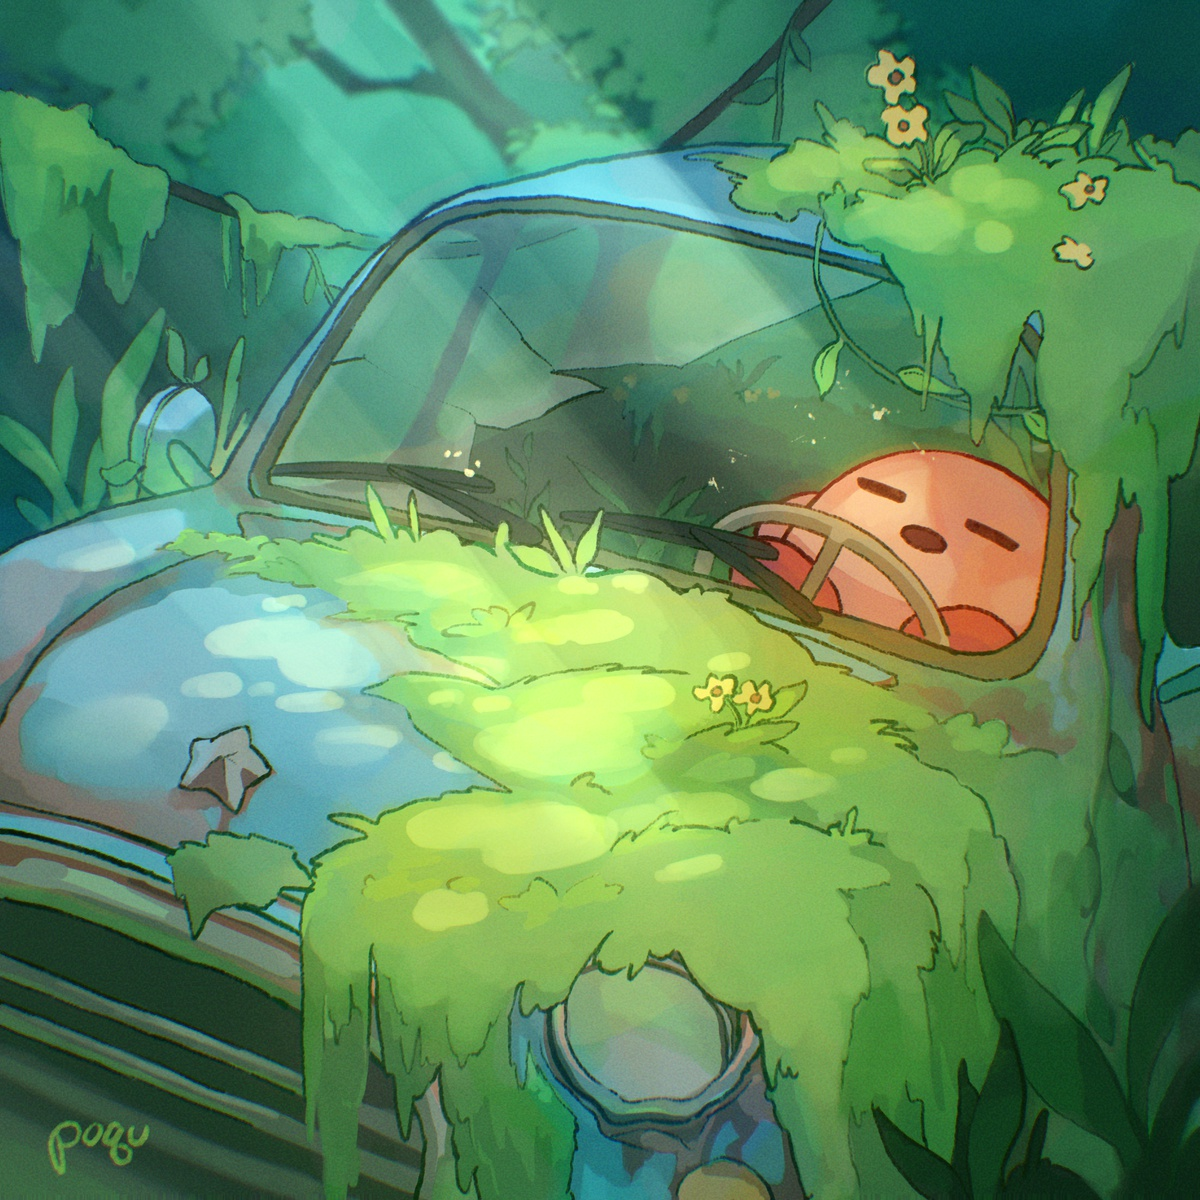
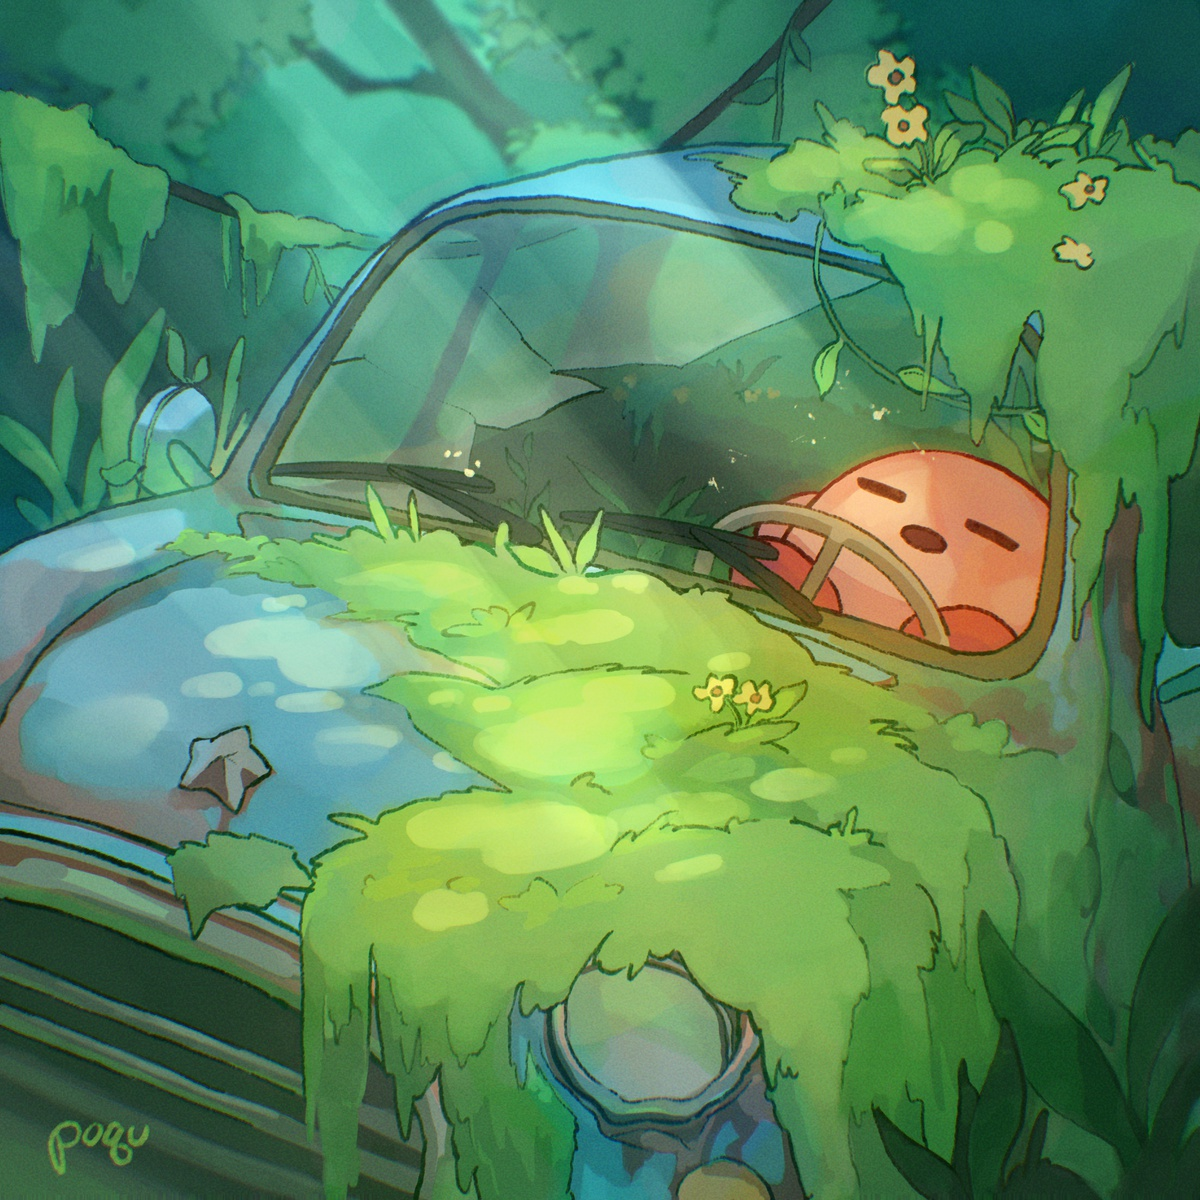
made sunbeams less jarring

Changed region(s): [[0.2775, 0.4625, 0.5858, 0.5858]]

diff --git a/content/fanart/kirbyresting.md b/content/fanart/kirbyresting.md
@@ -2,12 +2,12 @@
 date = "2021-10-01T13:41:01+05:30"
 title = "kirby is resting"
 draft = false
-image = "img/portfolio/kirbyresting.jpg"
+image = "img/portfolio/kirbyresting_2.jpg"
 showonlyimage = true
 weight = 1
 +++
 
-![trash](/img/portfolio/kirbyresting.jpg)
+![trash](/img/portfolio/kirbyresting_2.jpg)
 
 Kirby is resting. Based on the new game announced, Kirby and the Forgotten Land! I love the post-apocalyptic-overgrown-rusty aesthetic.
 
@@ -15,6 +15,8 @@ Here are small sketches of ideas for other illustrations I could make vaguely ba
 
 ![trash](/img/extra/kirbyresting_ex0.jpg)
 
-A few months later I decided to change it to see if sunbeams would improve the lighting! I prefer this version alone, but it looks out of place when placed with the rest of my art.
+A few months after I finished I decided to change it again to see if sunbeams would improve the lighting! I prefer this version alone, but it looks more out of place when placed with the rest of my art.
 
-![trash](/img/portfolio/kirbyresting_2.jpg)
+Here is how the piece looked before:
+
+![trash](/img/portfolio/kirbyresting.jpg)
